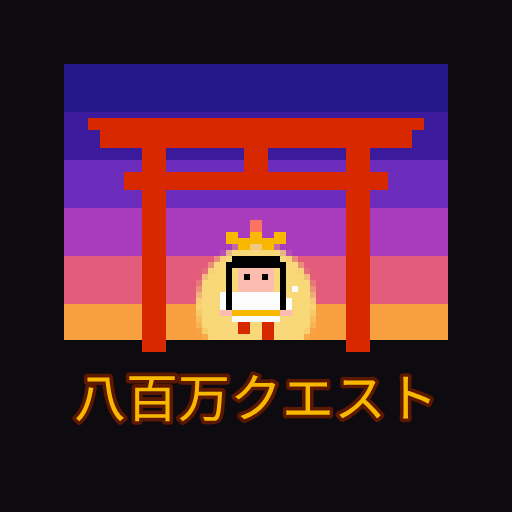
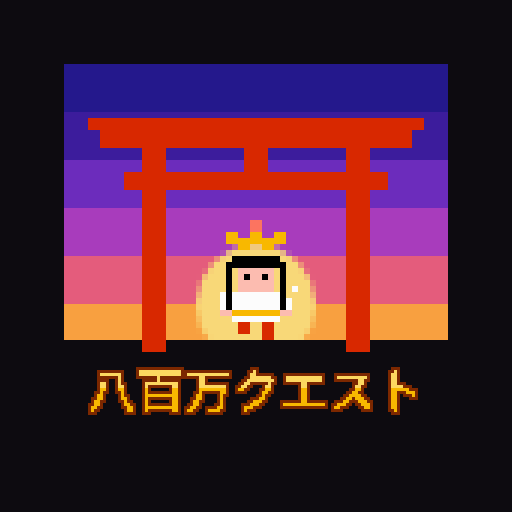
アイコンの文字をドット風に
Claude-Session: https://claude.ai/code/session_01KBGaUzvSHc8XUbiXGswuYB

Changed region(s): [[0.125, 0.7188, 0.8438, 0.8438]]

diff --git a/sw.js b/sw.js
@@ -1,4 +1,4 @@
-const CACHE='yaoyorozu-v88';
+const CACHE='yaoyorozu-v89';
 const CORE=['./','index.html','manifest.webmanifest','icon-192.png','icon-512.png','icon-maskable-512.png','apple-touch-icon.png'];
 self.addEventListener('install',e=>{e.waitUntil(caches.open(CACHE).then(c=>c.addAll(CORE)).then(()=>self.skipWaiting()));});
 self.addEventListener('activate',e=>{e.waitUntil(caches.keys().then(ks=>Promise.all(ks.filter(k=>k!==CACHE).map(k=>caches.delete(k)))).then(()=>self.clients.claim()));});
